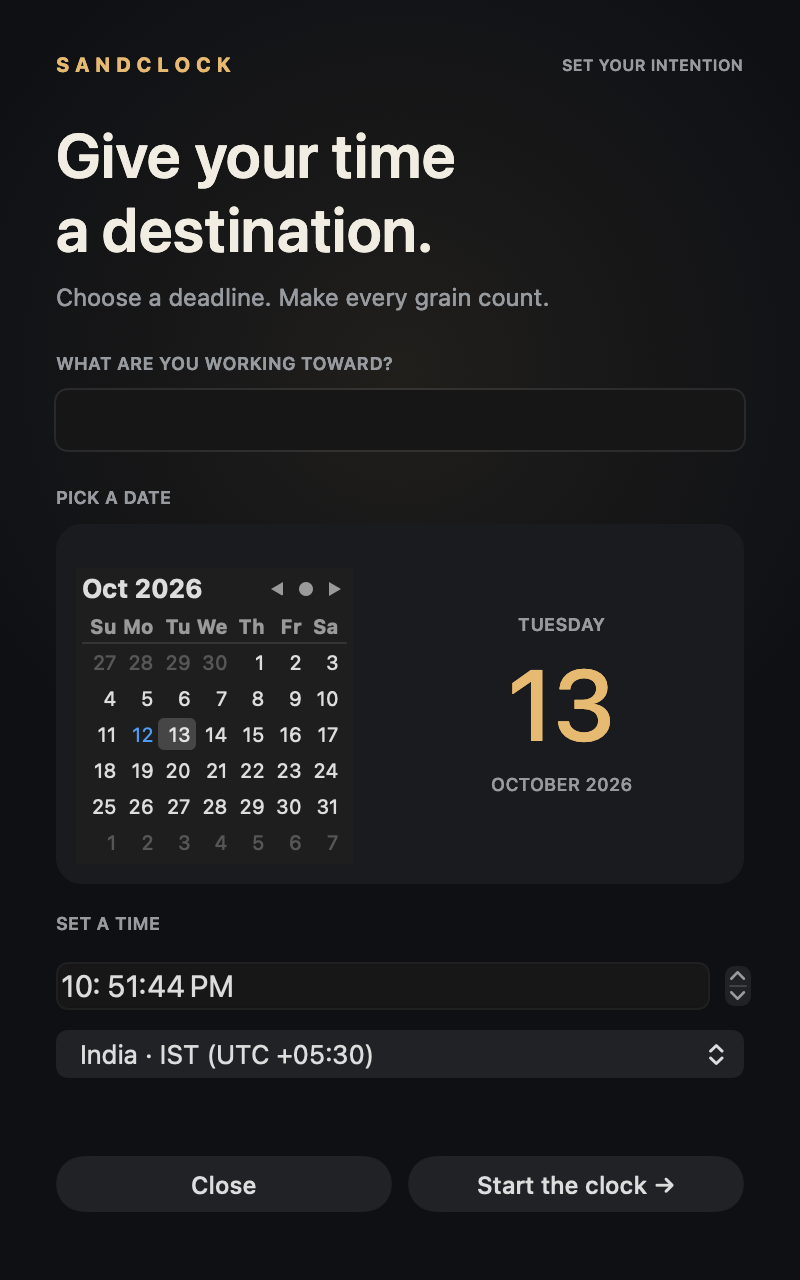
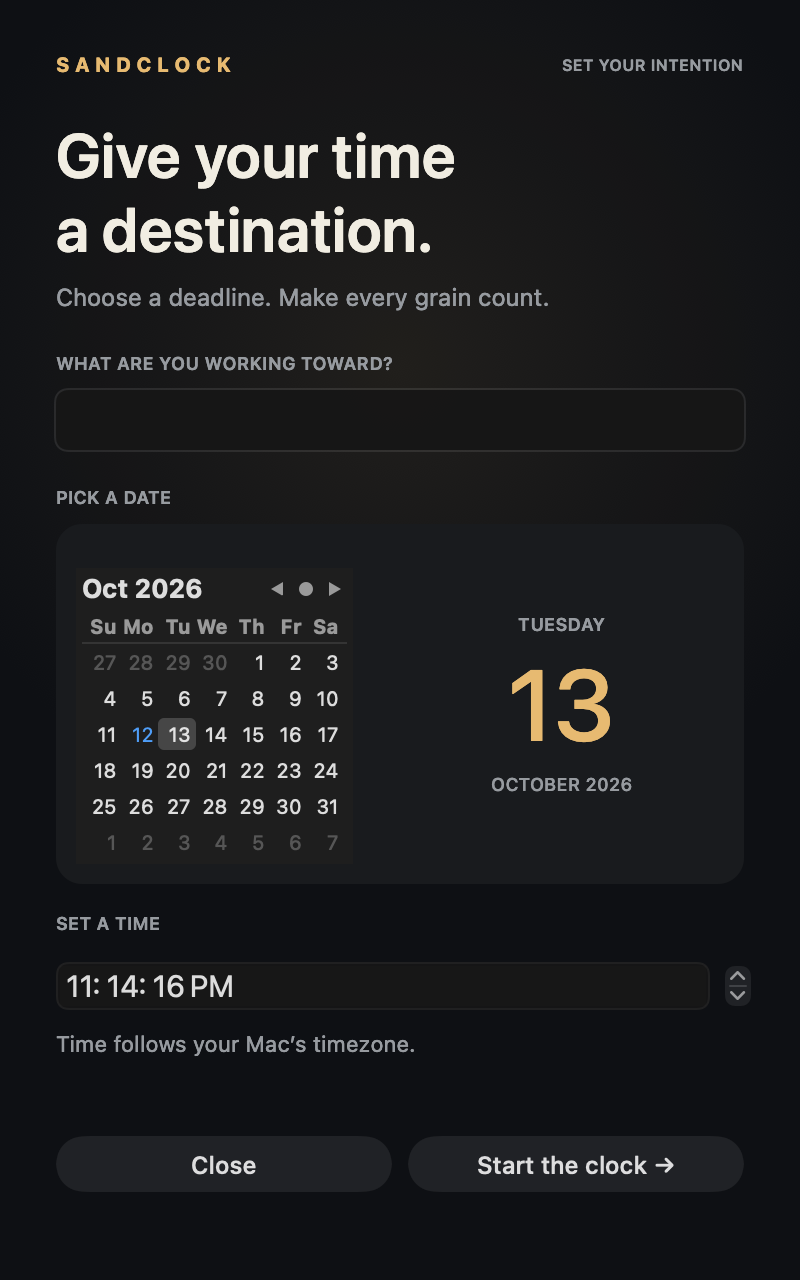
Use device timezone and add hourglass demo with subtle settling

diff --git a/Source/main.swift b/Source/main.swift
@@ -166,7 +166,6 @@ final class Deadline {
     }
     var started: Date { didSet { if persist { defaults.set(started.timeIntervalSince1970, forKey: "started") } } }
     var title: String { didSet { if persist { defaults.set(title, forKey: "title") } } }
-    var timeZoneID: String { didSet { if persist { defaults.set(timeZoneID, forKey: "timeZone") } } }
     init(persist: Bool = true) {
         self.persist = persist
         let stamp = defaults.double(forKey: "target")
@@ -177,9 +176,9 @@ final class Deadline {
         let seededTitle = ["Make it happen", "Make it happen."].contains(storedTitle)
         title = seededTitle ? "" : storedTitle
         if persist && seededTitle { defaults.set("", forKey: "title") }
-        timeZoneID = defaults.string(forKey: "timeZone") ?? "Asia/Kolkata"
+        if persist { defaults.removeObject(forKey: "timeZone") }
     }
-    var timeZone: TimeZone { TimeZone(identifier: timeZoneID) ?? .current }
+    var timeZone: TimeZone { .autoupdatingCurrent }
     var fractionLeft: Double {
         guard let target else { return 0.72 }
         let span = target.timeIntervalSince(started)
@@ -233,6 +232,8 @@ final class HourglassView: NSView {
     var flowing = true
     var animationTimer: Timer?
     let epoch = ProcessInfo.processInfo.systemUptime
+    var previewTime: Double?
+    var previewBackground = false
     private var lowerPile: SandPile?
     override var isOpaque: Bool { false }
 
@@ -255,6 +256,7 @@ final class HourglassView: NSView {
     }
 
     override func draw(_ dirtyRect: NSRect) {
+        if previewBackground { Palette.background.setFill(); bounds.fill() }
         NSGraphicsContext.saveGraphicsState()
         let size = min(bounds.width / 220, bounds.height / 220)
         let transform = NSAffineTransform()
@@ -337,7 +339,7 @@ final class HourglassView: NSView {
                    ending: accent.withAlphaComponent(0.48))!.draw(in: pile, angle: -90)
 
         if flowing && fraction > 0 {
-            let time = ProcessInfo.processInfo.systemUptime - epoch
+            let time = previewTime ?? (ProcessInfo.processInfo.systemUptime - epoch)
             let landing = min(100, 27 + lowerProfile[lowerCount / 2] + 0.5)
             // Falling grains accelerate through the neck.
             for index in 0..<15 {
@@ -347,14 +349,15 @@ final class HourglassView: NSView {
                 grain(NSPoint(x: x, y: y), radius: index % 3 == 0 ? 1.15 : 0.7,
                       opacity: 0.5 + 0.4 * phase)
             }
-            // Tiny ballistic arcs give the landing sand a light, flying scatter.
-            for index in 0..<12 {
-                let phase = (time * 1.1 + Double(index) / 12).truncatingRemainder(dividingBy: 1)
+            // A few grains slide DOWN the actual surface after impact. There
+            // is no upward launch or decorative ballistic splash.
+            for index in 0..<4 {
+                let phase = (time * 0.75 + Double(index) / 4).truncatingRemainder(dividingBy: 1)
                 let direction: Double = index % 2 == 0 ? -1 : 1
-                let spread = 10 + Double(index % 5) * 3
-                let x = 110 + direction * phase * spread
-                let y = landing + 9 * sin(phase * .pi) - phase * spread * 0.30
-                grain(NSPoint(x: x, y: y), radius: 0.75, opacity: (1 - phase) * 0.8)
+                let x = 110 + direction * phase * 5
+                let column = min(lowerCount - 1, max(0, Int((x - 61) / lowerWidth)))
+                let y = 27 + lowerProfile[column] + 0.3
+                grain(NSPoint(x: x, y: y), radius: 0.55, opacity: (1 - phase) * 0.4)
             }
         }
         NSGraphicsContext.restoreGraphicsState()
@@ -584,7 +587,7 @@ final class SandDigitsView: NSView {
 
 final class CountdownController: NSViewController {
     let deadline: Deadline
-    var saveAction: ((String, Date, String) -> Void)?
+    var saveAction: ((String, Date) -> Void)?
     var quitAction: (() -> Void)?
     var closeAction: (() -> Void)?
     var isEditing = false
@@ -602,10 +605,8 @@ final class CountdownController: NSViewController {
     var chosenDayLabel: NSTextField?
     var chosenWeekdayLabel: NSTextField?
     var chosenMonthLabel: NSTextField?
-    var zonePicker: NSPopUpButton?
     var errorLabel: NSTextField?
     var reduceMotion = NSWorkspace.shared.accessibilityDisplayShouldReduceMotion
-    private var zoneIDs: [String] = []
 
     init(deadline: Deadline) { self.deadline = deadline; super.init(nibName: nil, bundle: nil) }
     required init?(coder: NSCoder) { fatalError() }
@@ -621,7 +622,7 @@ final class CountdownController: NSViewController {
         hourglass?.stopAnimation()
         hourglass = nil; tiles = []; progress = nil
         titleLabel = nil; dateLabel = nil; messageLabel = nil; badgeLabel = nil; progressLabel = nil
-        nameField = nil; datePicker = nil; timePicker = nil; zonePicker = nil; errorLabel = nil
+        nameField = nil; datePicker = nil; timePicker = nil; errorLabel = nil
         chosenDayLabel = nil; chosenWeekdayLabel = nil; chosenMonthLabel = nil
         isEditing = editing
         let root = Backdrop(frame: NSRect(x: 0, y: 0, width: 400, height: editing ? 640 : 620))
@@ -727,18 +728,7 @@ final class CountdownController: NSViewController {
             timePicker = clock
             add(clock, gap: 10)
 
-            let zones = NSPopUpButton()
-            zoneIDs = ["Asia/Kolkata", "UTC"]
-            if !zoneIDs.contains(TimeZone.current.identifier) { zoneIDs.append(TimeZone.current.identifier) }
-            if !zoneIDs.contains(deadline.timeZoneID) { zoneIDs.append(deadline.timeZoneID) }
-            for identifier in zoneIDs {
-                zones.addItem(withTitle: identifier == "Asia/Kolkata" ? "India · IST (UTC +05:30)" :
-                              identifier == "UTC" ? "UTC (UTC +00:00)" : identifier.replacingOccurrences(of: "_", with: " "))
-            }
-            zones.selectItem(at: zoneIDs.firstIndex(of: deadline.timeZoneID) ?? 0)
-            zones.target = self; zones.action = #selector(changeZone)
-            zonePicker = zones
-            add(zones, gap: 8)
+            add(label("Time follows your Mac’s timezone.", size: 11, color: Palette.muted), gap: 8)
             let error = label("", size: 11, color: Palette.red)
             errorLabel = error
             add(error, gap: 14)
@@ -833,12 +823,6 @@ final class CountdownController: NSViewController {
         }
         badgeLabel?.textColor = deadline.phase == .calm ? Palette.muted : deadline.accent
     }
-    @objc private func changeZone() {
-        guard let zonePicker, zoneIDs.indices.contains(zonePicker.indexOfSelectedItem) else { return }
-        datePicker?.timeZone = TimeZone(identifier: zoneIDs[zonePicker.indexOfSelectedItem])
-        timePicker?.timeZone = datePicker?.timeZone
-        updateDateSelection()
-    }
     @objc private func updateDateSelection() {
         guard let picker = datePicker else { return }
         let formatter = DateFormatter()
@@ -848,11 +832,8 @@ final class CountdownController: NSViewController {
         formatter.dateFormat = "MMMM yyyy"; chosenMonthLabel?.stringValue = formatter.string(from: picker.dateValue).uppercased()
     }
     @objc private func save() {
-        guard let picker = datePicker, let clock = timePicker, let zones = zonePicker,
-              zoneIDs.indices.contains(zones.indexOfSelectedItem) else { return }
-        let zoneID = zoneIDs[zones.indexOfSelectedItem]
-        guard let zone = TimeZone(identifier: zoneID),
-              let target = combineDeadline(day: picker.dateValue, time: clock.dateValue, zone: zone) else {
+        guard let picker = datePicker, let clock = timePicker else { return }
+        guard let target = combineDeadline(day: picker.dateValue, time: clock.dateValue, zone: .current) else {
             errorLabel?.stringValue = "Choose a valid time in this timezone."
             return
         }
@@ -862,7 +843,7 @@ final class CountdownController: NSViewController {
             return
         }
         let name = (nameField?.stringValue ?? "").trimmingCharacters(in: .whitespacesAndNewlines)
-        saveAction?(String(name.prefix(70)), target, zoneID)
+        saveAction?(String(name.prefix(70)), target)
         rebuild(editing: false)
     }
     @objc private func cancelEdit() {
@@ -899,12 +880,11 @@ final class AppDelegate: NSObject, NSApplicationDelegate, NSPopoverDelegate {
             button.setAccessibilityLabel("Sandclock countdown. Click to view or edit your deadline.")
         }
         controller = CountdownController(deadline: deadline)
-        controller.saveAction = { [weak self] title, date, zone in
+        controller.saveAction = { [weak self] title, date in
             guard let self else { return }
             // Editing a deadline starts a new interval for the sand and progress display.
             self.deadline.started = Date()
             self.deadline.title = title
-            self.deadline.timeZoneID = zone
             self.deadline.target = date
             self.update()
         }
@@ -984,7 +964,7 @@ final class AppDelegate: NSObject, NSApplicationDelegate, NSPopoverDelegate {
 }
 
 // Small, deterministic checks exercise boundary math without opening a UI.
-if let previewIndex = CommandLine.arguments.firstIndex(where: { ["--render-preview", "--render-setup", "--render-menubar", "--render-complete"].contains($0) }), CommandLine.arguments.count > previewIndex + 1 {
+if let previewIndex = CommandLine.arguments.firstIndex(where: { ["--render-preview", "--render-setup", "--render-menubar", "--render-complete", "--render-hourglass"].contains($0) }), CommandLine.arguments.count > previewIndex + 1 {
     // Export the same native view offscreen; never overwrite the user's deadline.
     let app = NSApplication.shared
     app.appearance = NSAppearance(named: .darkAqua)
@@ -997,7 +977,26 @@ if let previewIndex = CommandLine.arguments.firstIndex(where: { ["--render-previ
         model.target = Date().addingTimeInterval(-1)
     }
     let output = URL(fileURLWithPath: CommandLine.arguments[previewIndex + 1])
-    if CommandLine.arguments[previewIndex] == "--render-menubar" {
+    if CommandLine.arguments[previewIndex] == "--render-hourglass" {
+        let glass = HourglassView(frame: NSRect(x: 0, y: 0, width: 220, height: 220))
+        glass.appearance = NSAppearance(named: .darkAqua)
+        glass.fraction = model.fractionLeft
+        glass.accent = model.accent
+        glass.previewBackground = true
+        let destination = CGImageDestinationCreateWithURL(output as CFURL, UTType.gif.identifier as CFString, 36, nil)!
+        CGImageDestinationSetProperties(destination, [kCGImagePropertyGIFDictionary: [kCGImagePropertyGIFLoopCount: 0]] as CFDictionary)
+        for index in 0..<36 {
+            glass.previewTime = Double(index) / 12
+            let image = rasterImage(size: glass.bounds.size) {
+                glass.effectiveAppearance.performAsCurrentDrawingAppearance { glass.draw(glass.bounds) }
+            }
+            CGImageDestinationAddImage(destination, image.cgImage(forProposedRect: nil, context: nil, hints: nil)!, [
+                kCGImagePropertyGIFDictionary: [kCGImagePropertyGIFDelayTime: 1.0 / 12]
+            ] as CFDictionary)
+        }
+        precondition(CGImageDestinationFinalize(destination))
+        print("Exported hourglass animation with curved-wall settling and no upward splash.")
+    } else if CommandLine.arguments[previewIndex] == "--render-menubar" {
         let view = SandDigitsView(frame: .zero)
         view.deadline = model
         view.previewBackground = true

diff --git a/README.md b/README.md
@@ -2,14 +2,16 @@
 
 A native Mac menu bar countdown with sand moving behind the digits, an animated hourglass, and a calendar for choosing your deadline. Built with Swift and AppKit, with no third-party dependencies or accounts.
 
-![Sand flowing behind the countdown](docs/images/menu-bar.gif)
+| Menu bar countdown | Hourglass |
+| :---: | :---: |
+| <img src="docs/images/menu-bar.gif" alt="Sand moving behind the countdown digits" width="220"> | <img src="docs/images/hourglass.gif" alt="Hourglass grains falling and settling without an upward splash" width="180"> |
 
 ## Download
 
 Get **Sandclock-macOS-arm64.zip** from the [latest release](https://github.com/rakeshvytla9/sandclock-macos/releases/latest).
 
 1. Unzip the download and move **Sandclock.app** to Applications.
-2. Open it. On first launch, choose a date from the calendar and set the time and timezone. The name is optional and starts empty.
+2. Open it. On first launch, choose a date from the calendar and set the time. Your Mac's timezone is used automatically. The name is optional and starts empty.
 3. Click **Start the clock**. The countdown lives in the menu bar, with days, hours, minutes, and seconds.
 4. Click the countdown to open the hourglass or edit the deadline. Right-click it for a compact edit/quit menu.
 
@@ -21,9 +23,9 @@ The app has no Dock icon. It does not start automatically after reboot; add it i
 
 - Exact days, hours, minutes, and seconds in the menu bar.
 - Grains enter from the left and settle to the right behind the digits. The text stays on top with a contrasting halo, and the graphic uses the countdown's existing width.
-- Both the menu bar and the hourglass use the same small-column sand model. Neighbouring columns exchange sand when their visual slope is too steep. The hourglass's column capacities follow the curved glass walls.
+- Both the menu bar and the hourglass use the same small-column sand model. Neighbouring columns exchange sand when their visual slope is too steep. The hourglass's column capacities follow the curved glass walls. Grains fall and make a small sideways settling movement on impact, with no exaggerated upward bounce.
 - The visible flow stays near four grains per second. Each grain contributes a smaller fraction of the container on longer countdowns, so the fill reflects the countdown's elapsed percentage and finishes at the deadline.
-- Calendar date picker, separate time control with seconds, and timezone selection. India time (IST) is selected initially; UTC and the Mac's timezone are available too.
+- Calendar date picker and separate time control with seconds. The app uses the Mac's current timezone automatically, with no timezone selector. Once saved, the target is an absolute instant: changing timezone changes its displayed local time rather than the countdown's remaining duration.
 - The name field starts empty, stays empty if saved without a name, and has no default motivational text.
 - Gold above 25% remaining, amber above 10% through 25%, and red for the final 10%. At completion the colour returns to gold and the message is **“Hope you made it.”**
 - Deadlines and names are saved locally between launches. The timer catches up from the actual target date after sleep; it stays at zero after completion.
@@ -67,6 +69,7 @@ dist/Sandclock.app/Contents/MacOS/Sandclock --render-setup dist/calendar.png
 dist/Sandclock.app/Contents/MacOS/Sandclock --render-preview dist/hourglass.png
 dist/Sandclock.app/Contents/MacOS/Sandclock --render-complete dist/complete.png
 dist/Sandclock.app/Contents/MacOS/Sandclock --render-menubar dist/menu-bar.gif
+dist/Sandclock.app/Contents/MacOS/Sandclock --render-hourglass dist/hourglass.gif
 ```
 
 ## How the sand works

diff --git a/RELEASE_NOTES.md b/RELEASE_NOTES.md
@@ -1,13 +1,15 @@
-## Sandclock 1.0.0
+## Sandclock 1.0.1
 
 Native Mac menu bar countdown showing days, hours, minutes, and seconds.
 
 - Sand flows behind the digits and settles using a column model shared with the curved hourglass.
-- Calendar date picker, separate time control, and timezone selection.
+- Calendar date picker, separate time control, and automatic use of the Mac's timezone.
 - Empty optional name field with no fallback name.
 - Percentage-based urgency colours and “Hope you made it.” at completion.
 - Saves settings locally, respects Reduce Motion at launch, and uses no network services.
 - Cached menu bar images refresh with the clock once per second. The larger animation runs at 12 fps only while its popup is visible.
+- Hourglass grains fall and settle sideways, with the exaggerated upward splash removed.
+- Both the horizontal menu bar effect and the hourglass animation are shown together in the README.
 
 Download the ZIP, unzip it, move Sandclock.app to Applications, and open it. This release is for Apple silicon, targets macOS 13 or later, and is ad-hoc signed rather than Apple-notarized. macOS may require approval under Privacy & Security for the downloaded copy.
 
